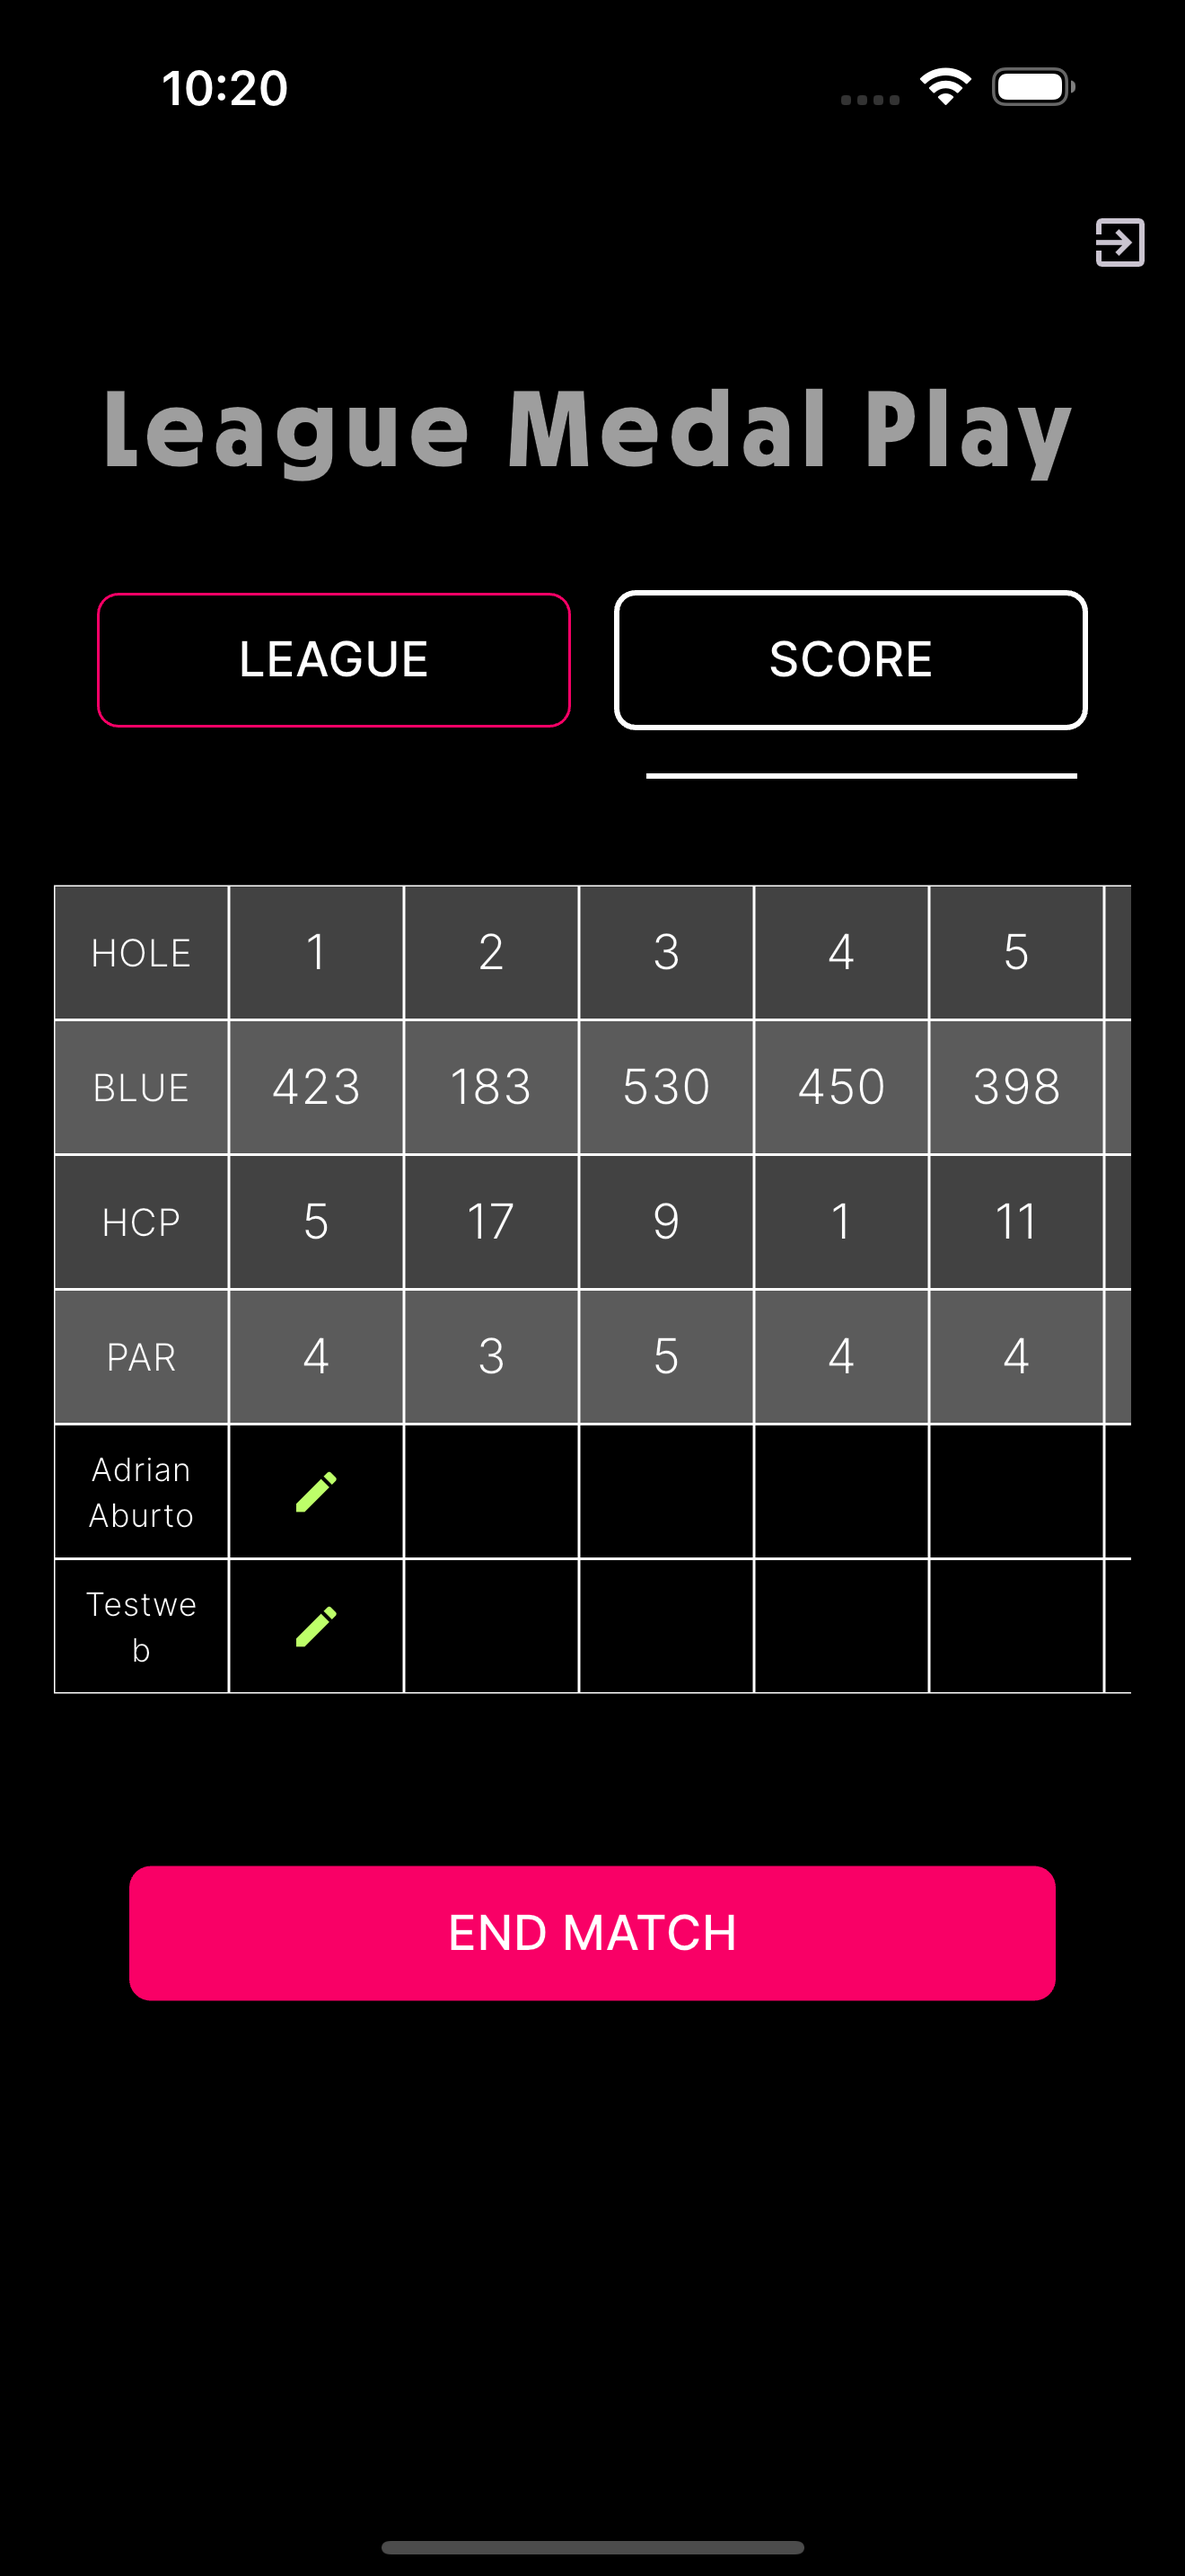
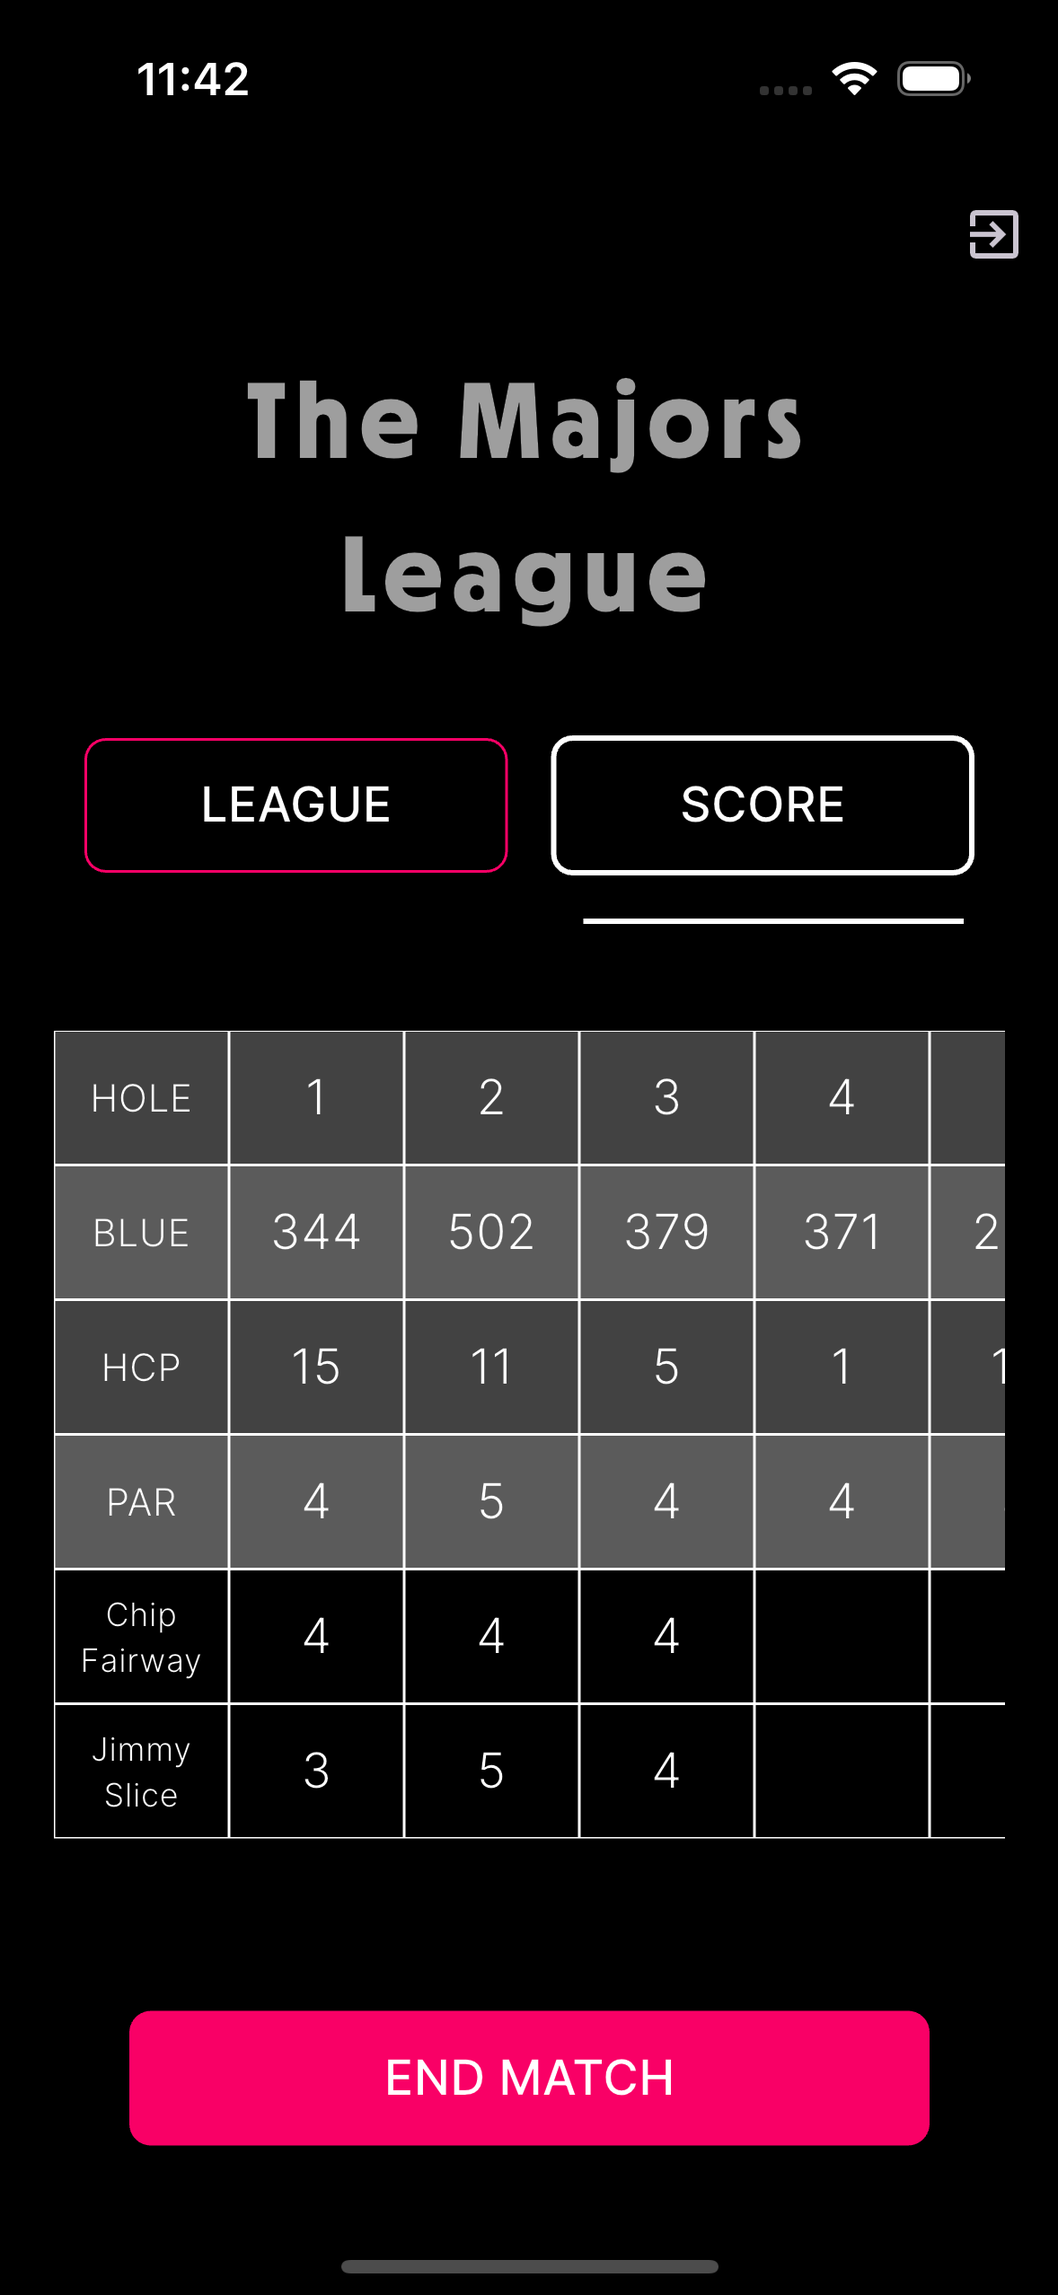
Update landing page images, Replace landing page texts

diff --git a/src/views/Welcome/components/Features.tsx b/src/views/Welcome/components/Features.tsx
@@ -13,34 +13,26 @@ import { FeatureCard } from "./FeatureCard";
 export const Features = () => {
   const featureData = [
     {
-      title: "League Management",
+      title: "Manage your league in TBL",
       description:
-        "Create and manage golf leagues with ease. Track standings, organize tournaments, and build competitive communities.",
-      imgSrc: "/select_course_screen.png",
-      alt: "League Management",
+        "Determine the length of the season, number of rounds and points per win / draw",
+      imgSrc: "/league_details_standings_screen.png",
+      alt: "Manage your league in TBL",
     },
     {
-      title: "Live Scoring",
+      title: "Immediate Scoring Notifications",
       description:
-        "Real-time score tracking with intuitive hole-by-hole input. Never lose track of your game again.",
+        "Players upload their scores and league-wide results notifications are sent.",
       imgSrc: "/score_screen.png",
-      alt: "Live Scoring",
+      alt: "Immediate Scoring Notifications",
       reverse: true,
     },
     {
-      title: "Detailed Statistics",
+      title: "Leaderboards",
       description:
-        "Comprehensive stats and analytics to improve your game. Track handicaps, course performance, and progress over time.",
-      imgSrc: "/score_dialog.png",
-      alt: "Detailed Statistics",
-    },
-    {
-      title: "Course Selection",
-      description:
-        "Choose from a wide variety of golf courses. Find your favorite courses and discover new challenges.",
-      imgSrc: "/select_opponent_screen.png",
-      alt: "Course Selection",
-      reverse: true,
+        "Comprehensive stats and analytics with live individual and team leaderboards",
+      imgSrc: "/board_screen.png",
+      alt: "Leaderboards",
     },
   ];
 
@@ -52,7 +44,7 @@ export const Features = () => {
             variant="h2"
             sx={{ mb: 2, fontSize: { xs: "2.25rem", md: "3rem" } }}
           >
-            Everything You Need for Golf
+            You’re ready to start your golf season
           </Typography>
           <Typography
             sx={{
@@ -62,8 +54,9 @@ export const Features = () => {
               mx: "auto",
             }}
           >
-            From casual rounds to competitive leagues, TEE BOX LEAGUE provides
-            all the tools you need to elevate your golf experience.
+            TBL manages several types of golf leagues, all designed to promote
+            competitive play and deliver a sought-after outcome: your name in
+            the winners circle and bragging rights that last a lifetime
           </Typography>
         </Box>
         {featureData.map((feature, index) => (

diff --git a/src/views/Welcome/components/Hero.tsx b/src/views/Welcome/components/Hero.tsx
@@ -115,7 +115,7 @@ export const Hero = () => (
             variant="inherit"
             sx={{ color: "#4ade80" }}
           >
-            LEAGUE
+            League
           </Typography>
         </Typography>
       </AnimatedBox>
@@ -137,7 +137,7 @@ export const Hero = () => (
           sx={{
             color: "#4ade80",
             fontWeight: 600,
-            fontSize: { xs: "1.1rem", md: "1.25rem" },
+            fontSize: { xs: "1.25rem", md: "1.5rem" },
             mb: 4,
           }}
         >
@@ -149,31 +149,12 @@ export const Hero = () => (
         <Box
           sx={{
             display: "flex",
-            flexDirection: { xs: "column", sm: "row" },
+            flexDirection: { xs: "column", sm: "column" },
             gap: 2,
             justifyContent: "center",
             alignItems: "center",
           }}
         >
-          <Button
-            variant="contained"
-            sx={{
-              bgcolor: "primary.main",
-              "&:hover": {
-                bgcolor: "secondary.main",
-                transform: "scale(1.05)",
-              },
-              px: 4,
-              py: "12px",
-              fontSize: "1.125rem",
-              fontWeight: 600,
-              borderRadius: "8px",
-              transition: "all 0.3s",
-              textTransform: "none",
-            }}
-          >
-            Download Now
-          </Button>
           <Link to="/login">
             <Button
               variant="contained"
@@ -190,6 +171,7 @@ export const Hero = () => (
                 borderRadius: "8px",
                 transition: "all 0.3s",
                 textTransform: "none",
+                minWidth: "14rem",
               }}
             >
               Login
@@ -213,18 +195,13 @@ export const Hero = () => (
                 borderRadius: "8px",
                 transition: "all 0.3s",
                 textTransform: "none",
+                minWidth: "14rem",
               }}
             >
               Create an Account
             </Button>
           </Link>
         </Box>
-      </AnimatedBox>
-
-      <AnimatedBox delay={0.9} sx={{ mt: 8 }}>
-        <Typography sx={{ fontSize: "0.875rem", color: "grey.400", mb: 2 }}>
-          Experience the power of digital golf scoring
-        </Typography>
       </AnimatedBox>
     </Container>
   </Box>

diff --git a/src/views/Welcome/components/FeatureCard.tsx b/src/views/Welcome/components/FeatureCard.tsx
@@ -10,12 +10,14 @@ export const FeatureCard = ({
   imgSrc,
   alt,
   reverse = false,
+  noImage = false,
 }: {
   title: string;
   description: string;
   imgSrc: string;
   alt: string;
   reverse?: boolean;
+  noImage?: boolean;
 }) => (
   <Grid
     container
@@ -24,7 +26,7 @@ export const FeatureCard = ({
     direction={reverse ? "row-reverse" : "row"}
     sx={{ mb: 8 }}
   >
-    <Grid item md={6}>
+    <Grid item md={noImage ? 12 : 6}>
       <AnimatedBox>
         <Typography
           variant="h3"
@@ -44,33 +46,35 @@ export const FeatureCard = ({
         </Typography>
       </AnimatedBox>
     </Grid>
-    <Grid item md={6}>
-      <AnimatedBox>
-        <Box
-          sx={{
-            bgcolor: "common.black",
-            borderRadius: "24px",
-            p: 1,
-            boxShadow: 20,
-            transition: "transform 0.3s",
-            "&:hover": {
-              transform: "scale(1.05)",
-            },
-          }}
-        >
-          <img
-            src={imgSrc}
-            alt={alt}
-            style={{
-              width: "75%",
-              height: "auto",
-              borderRadius: "16px",
-              display: "block",
-              margin: "0 auto",
+    {!noImage && (
+      <Grid item md={6}>
+        <AnimatedBox>
+          <Box
+            sx={{
+              bgcolor: "common.black",
+              borderRadius: "24px",
+              p: 1,
+              boxShadow: 20,
+              transition: "transform 0.3s",
+              "&:hover": {
+                transform: "scale(1.05)",
+              },
             }}
-          />
-        </Box>
-      </AnimatedBox>
-    </Grid>
+          >
+            <img
+              src={imgSrc}
+              alt={alt}
+              style={{
+                width: "75%",
+                height: "auto",
+                borderRadius: "16px",
+                display: "block",
+                margin: "0 auto",
+              }}
+            />
+          </Box>
+        </AnimatedBox>
+      </Grid>
+    )}
   </Grid>
 );

diff --git a/src/views/Welcome/components/FooterWelcome.tsx b/src/views/Welcome/components/FooterWelcome.tsx
@@ -90,7 +90,7 @@ export const Footer = () => {
                 component="span"
                 sx={{ fontWeight: 700, textAlign: "center" }}
               >
-                TEE BOX LEAGUE
+                TEE BOX League
               </Typography>
             </Box>
 
@@ -102,8 +102,7 @@ export const Footer = () => {
                 textAlign: "center",
               }}
             >
-              The ultimate golf scoring and league management app. Practice with
-              purpose, play with an edge, and become a league legend.
+              The ultimate league App.
             </Typography>
           </Grid>
           <Grid
@@ -117,16 +116,6 @@ export const Footer = () => {
               justifyContent: "flex-start",
             }}
           >
-            <Typography
-              variant="h6"
-              sx={{
-                fontWeight: 600,
-                mb: 2,
-                textAlign: { xs: "center", md: "right" },
-              }}
-            >
-              Support
-            </Typography>
             <Box
               component="ul"
               sx={{
@@ -182,7 +171,8 @@ export const Footer = () => {
           }}
         >
           <Typography>
-            © {new Date().getFullYear()} TEE BOX LEAGUE. All rights reserved.
+            © {new Date().getFullYear()} TEE BOX League. All rights reserved.
+            Brilliant Minds Inc powered by Big Mkt Inc.
           </Typography>
         </Box>
       </Container>

diff --git a/src/views/Welcome/components/AppDownload.tsx b/src/views/Welcome/components/AppDownload.tsx
@@ -11,6 +11,7 @@ import {
 } from "@mui/material";
 
 import { ReactComponent as AppDownloadButton } from "../../../assets/appstore.svg";
+import { ReactComponent as AndroidDownloadButton } from "../../../assets/googleplay.svg";
 
 const AnimatedBox = styled(Box)<{ delay?: number }>(({ delay = 0 }) => ({
   animation: "fadeIn 0.8s ease-out forwards",
@@ -33,19 +34,7 @@ export const AppDownload = () => (
           variant="h2"
           sx={{ mb: 3, fontSize: { xs: "2.25rem", md: "3rem" } }}
         >
-          Ready to Transform Your Golf Game?
-        </Typography>
-      </AnimatedBox>
-      <AnimatedBox delay={0.3}>
-        <Typography
-          sx={{
-            fontSize: { xs: "1.1rem", md: "1.25rem" },
-            mb: 6,
-            opacity: 0.9,
-          }}
-        >
-          Join thousands of golfers who have already elevated their game with
-          TEE BOX LEAGUE
+          Practice with purpose, play with an edge, and become a league legend
         </Typography>
       </AnimatedBox>
       <AnimatedBox delay={0.6}>
@@ -60,6 +49,7 @@ export const AppDownload = () => (
           }}
         >
           <AppDownloadButton />
+          <AndroidDownloadButton />
         </Box>
       </AnimatedBox>
     </Container>
